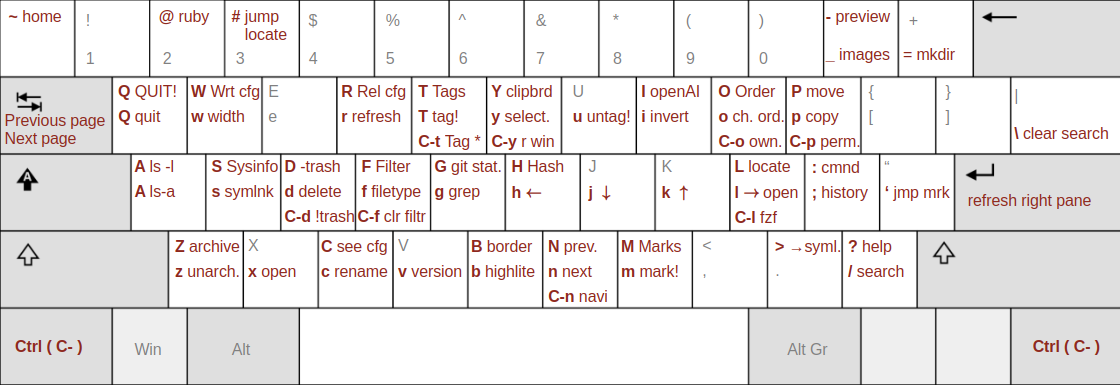
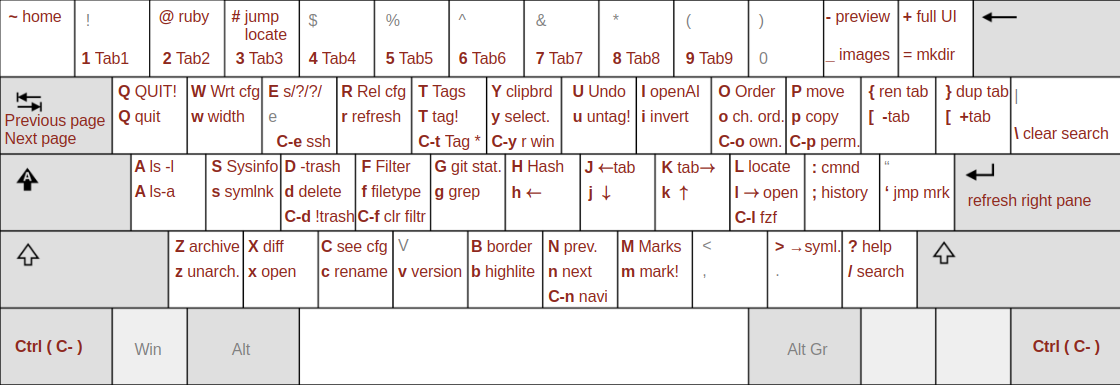
6.0: Major release with remote browsing and enhanced UX
• Remote SSH/SFTP browsing with seamless navigation and file operations
• SSH shell integration for interactive remote sessions
• Enhanced help system with color-coded sections and aligned formatting
• SSH connection comments for better organization (user@host # comment)
• Comprehensive undo system for file operations with safety checks
• Performance optimizations and code cleanup for improved stability
• Fixed missing '+' key mapping and help text inconsistencies
• Updated keyboard cheat sheet image
• Complete documentation updates

🤖 Generated with [Claude Code](https://claude.ai/code)

diff --git a/README.md b/README.md
@@ -2,18 +2,20 @@
  
 ![Ruby](https://img.shields.io/badge/language-Ruby-red) [![Gem Version](https://badge.fury.io/rb/rtfm-filemanager.svg)](https://badge.fury.io/rb/rtfm-filemanager) ![Unlicense](https://img.shields.io/badge/license-Unlicense-green) ![Stay Amazing](https://img.shields.io/badge/Stay-Amazing-important)
 
-## Version 5
+## Version 6.0
 
-Version 5 is a complete rewrite of RTFM using
-[rcurses](https://github.com/isene/rcurses) as the underlying library. With
-this, RTFM gains more stability, higher quality code and more features.
+Version 6.0 introduces comprehensive remote directory browsing capabilities and enhanced user experience improvements:
 
-Among the new version 5 features are an optional trash bin, advanced OpenAI
-integrations, plugin architectures for keybindings, user defined features and
-file viewers. You also get better feedback, better visuals, more error
-capture. Plenty.
+- **Remote SSH/SFTP browsing** with seamless navigation and file operations
+- **SSH shell integration** for interactive remote sessions  
+- **Enhanced help system** with color-coded sections and aligned formatting
+- **SSH connection comments** for better organization (user@host # comment)
+- **Comprehensive undo system** for file operations with safety checks
+- **Performance optimizations** and code cleanup for improved stability
 
-The major feature additions in v5 are marked in ***bold italic***.
+Version 5 was a complete rewrite using [rcurses](https://github.com/isene/rcurses) as the underlying library, providing stability, higher quality code and extensive features including optional trash bin, advanced OpenAI integrations, plugin architectures for keybindings, user defined features and file viewers.
+
+The major feature additions are marked in ***bold italic***.
 
 ## What?  
 <img src="img/logo.png" align="left" width="150" height="150"> RTFM is a
@@ -124,6 +126,10 @@ ssh://user@server.com/path/to/directory
 
 # Key at end format
 user@server.com:/path -i ~/.ssh/custom-key
+
+# With comments for organization
+user@server.com:/path # Production server
+admin@192.168.1.10 # Local development
 ```
 
 **Remote Mode Usage:**
